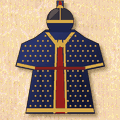
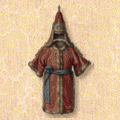
두정갑 그림을 바꾼다 — 사용자가 AI 로 만든 도판풍 그림을 오려 원본 아이템 그림처럼 흐리고 차분하게 줄였다
Claude-Session: https://claude.ai/code/session_01Gb3QPs9SSft8hoECPEFx3A

diff --git a/asset/item/README.md b/asset/item/README.md
@@ -28,4 +28,4 @@
 | 그림 | 쓰는 아이템 | 출처 |
 |---|---|---|
 | 206 | 110 사자의 서 (모드 「향상된 아이템 이미지」를 켰을 때만) | `사자의서.jpg` 를 아이템 그림 공통 양피지 바탕(206장에서 칸마다 가장 흔한 색) 위에 108x69 로 얹고 그림자를 깔았다. ITEM.CDS 에는 없다 — 예전에는 053(책)을 지중해의 유혹어와 나눠 썼다. |
-| 207 | 286 두정갑 (덧붙인 아이템 — 한양 육의전에서 판다) | 손으로 그렸다(남색 천 · 놋쇠 두정 · 금색 단 · 투구). 바탕은 206 과 같은 공통 양피지다. 다른 그림을 가져다 쓰지 않아 저작권이 걸리지 않는다. |
+| 207 | 286 두정갑 (덧붙인 아이템 — 한양 육의전에서 판다) | 사용자가 AI 로 만든 19세기 도판풍 두정갑 그림(빨간 천 · 털 단 · 파란 띠 · 투구)에서 종이 바탕을 지우고 갑옷만 오려 110점 높이로 줄였다. 채도 0.70 · 대비 0.90 · 밝기 0.95, 누런 톤을 조금 섞고 0.5 흐렸다. 206 과 같은 공통 양피지 위에 그림자를 깔고, 원본 갑옷 그림들에서 뽑은 색표로 줄였다. |
